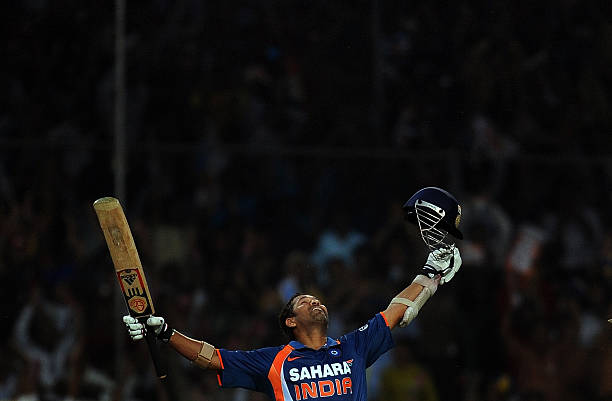
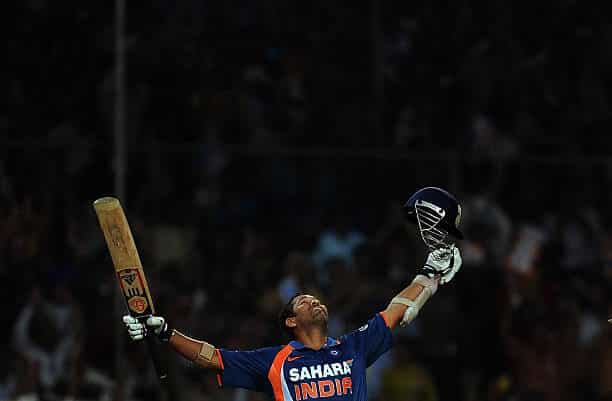
--fix: image compression

diff --git a/src/App.css b/src/App.css
@@ -1,0 +1,38 @@
+.App {
+  text-align: center;
+}
+
+.App-logo {
+  height: 40vmin;
+  pointer-events: none;
+}
+
+@media (prefers-reduced-motion: no-preference) {
+  .App-logo {
+    animation: App-logo-spin infinite 20s linear;
+  }
+}
+
+.App-header {
+  background-color: #282c34;
+  min-height: 100vh;
+  display: flex;
+  flex-direction: column;
+  align-items: center;
+  justify-content: center;
+  font-size: calc(10px + 2vmin);
+  color: white;
+}
+
+.App-link {
+  color: #61dafb;
+}
+
+@keyframes App-logo-spin {
+  from {
+    transform: rotate(0deg);
+  }
+  to {
+    transform: rotate(360deg);
+  }
+}
